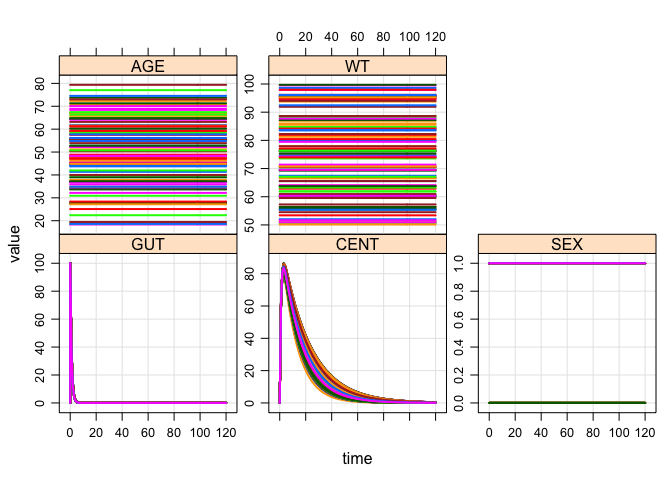
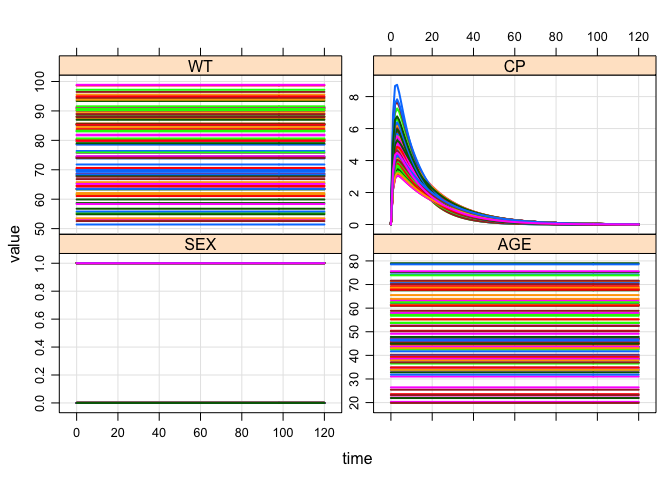
updating covset.R

diff --git a/misc_demo/covset.md b/misc_demo/covset.md
@@ -20,6 +20,7 @@ WT = 70, AGE = 50, SEX = 0
 
 $CMT GUT CENT
 $PKMODEL ncmt=1, depot=TRUE
+$SET req=""
 
 $MAIN
 double CL = TVCL*pow(WT/70,0.75);
@@ -39,6 +40,9 @@ f <- FLAG ~ runif(20,40)|GROUP
 
 cov1 <- covset(a,b)
 cov2 <- covset(b,d,a,f)
+
+$TABLE
+capture CP = CENT/V;
 '
 ```
 
@@ -70,9 +74,9 @@ mod %>%
 
     . $idata
     .   ID GROUP       WT      AGE SEX     FLAG
-    . 1  1     1 73.21533 34.15203   1 22.11444
-    . 2  2     0 50.60560 40.10236   1 30.39572
-    . 3  3     1 99.74429 36.96722   0 22.11444
-    . 4  4     0 73.78299 52.49183   0 30.39572
-    . 5  5     1 59.46153 33.69213   1 22.11444
-    . 6  6     0 95.87410 72.03013   1 30.39572
+    . 1  1     1 53.04120 48.69764   1 39.75256
+    . 2  2     0 77.80304 53.30236   0 38.72127
+    . 3  3     1 86.99440 43.40655   0 39.75256
+    . 4  4     0 75.36060 35.72132   1 38.72127
+    . 5  5     1 52.59413 34.09294   1 39.75256
+    . 6  6     0 83.40036 25.33765   1 38.72127
